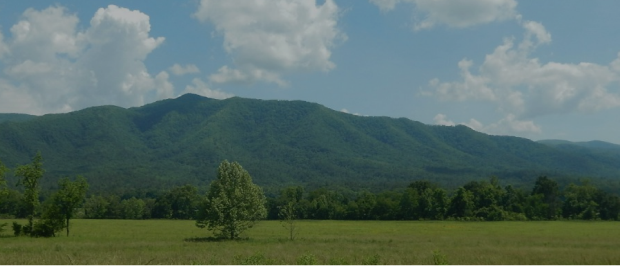
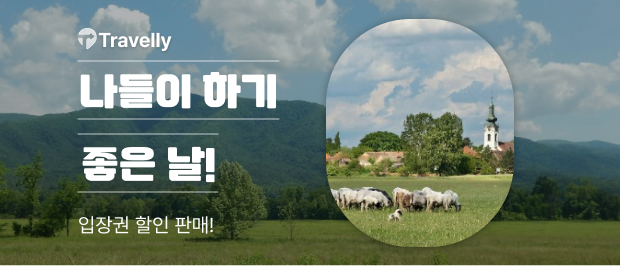
react-slick 라이브러리 이용하여 배너 슬라이드 구현

diff --git a/src/pages/home/Banner.tsx b/src/pages/home/Banner.tsx
@@ -1,12 +1,96 @@
-import BannerSky from '@/assets/home/banner-sky.png'
+import React, { useRef, useState } from 'react'
 
-import * as S from './HomePage.style'
+import bannerPicnic from '@/assets/home/banner-picnic.png'
+import bannerSky from '@/assets/home/banner-sky.png'
+import leftArrow from '@/assets/home/left-arrow.svg'
+import rightArrow from '@/assets/home/right-arrow.svg'
 
-const Banner = () => {
+import Slider, { Settings } from 'react-slick'
+import styled from 'styled-components'
+
+import 'slick-carousel/slick/slick-theme.css'
+import 'slick-carousel/slick/slick.css'
+
+const StyledSlider = styled(Slider)`
+  .slick-prev,
+  .slick-next {
+    display: none;
+  }
+`
+
+const SliderContainer = styled.div`
+  width: 100%;
+  position: relative;
+`
+
+const Slide = styled.div``
+
+const SlideImage = styled.img`
+  width: 100%;
+  height: 15.4rem;
+  object-fit: cover;
+`
+
+const CustomIndicator = styled.div`
+  position: absolute;
+  bottom: 1rem;
+  right: 1rem;
+  font-size: 1.2rem;
+  background-color: var(--color-black);
+  opacity: 0.8;
+  color: var(--color-white);
+  padding: 0.4rem 0.6rem;
+  border-radius: 5rem;
+  display: flex;
+  align-items: center;
+  justify-content: center;
+`
+
+const ArrowButton = styled.img`
+  cursor: pointer;
+  margin: 0 0.3rem;
+  width: 0.6rem;
+  height: 1rem;
+`
+
+const Banner: React.FC = () => {
+  const [currentSlide, setCurrentSlide] = useState(0)
+  const sliderRef = useRef<Slider>(null)
+
+  const settings: Settings = {
+    infinite: true,
+    slidesToShow: 1,
+    slidesToScroll: 1,
+    autoplay: true,
+    autoplaySpeed: 3000,
+    beforeChange: (oldIndex, newIndex) => setCurrentSlide(newIndex),
+  }
+
+  const images = [bannerSky, bannerPicnic]
+
   return (
-    <S.BannerWrapper>
-      <S.BannerImage src={BannerSky} />
-    </S.BannerWrapper>
+    <SliderContainer>
+      <StyledSlider ref={sliderRef} {...settings}>
+        {images.map((imageUrl, index) => (
+          <Slide key={index}>
+            <SlideImage src={imageUrl} alt={`banner ${index}`} />
+          </Slide>
+        ))}
+      </StyledSlider>
+      <CustomIndicator>
+        <ArrowButton
+          src={leftArrow}
+          alt="Previous"
+          onClick={() => sliderRef.current?.slickPrev()}
+        />
+        {`${currentSlide + 1} / ${images.length}`}
+        <ArrowButton
+          src={rightArrow}
+          alt="Next"
+          onClick={() => sliderRef.current?.slickNext()}
+        />
+      </CustomIndicator>
+    </SliderContainer>
   )
 }
 

diff --git a/src/pages/home/HomePage.style.tsx b/src/pages/home/HomePage.style.tsx
@@ -104,7 +104,9 @@ export const AllCardWrapper = styled.div`
 
 export const BannerWrapper = styled.header`
   width: 100%;
-  height: 26.5rem;
 `
 
-export const BannerImage = styled.img``
+export const BannerImage = styled.img`
+  width: 100%;
+  height: 15.4rem;
+`
